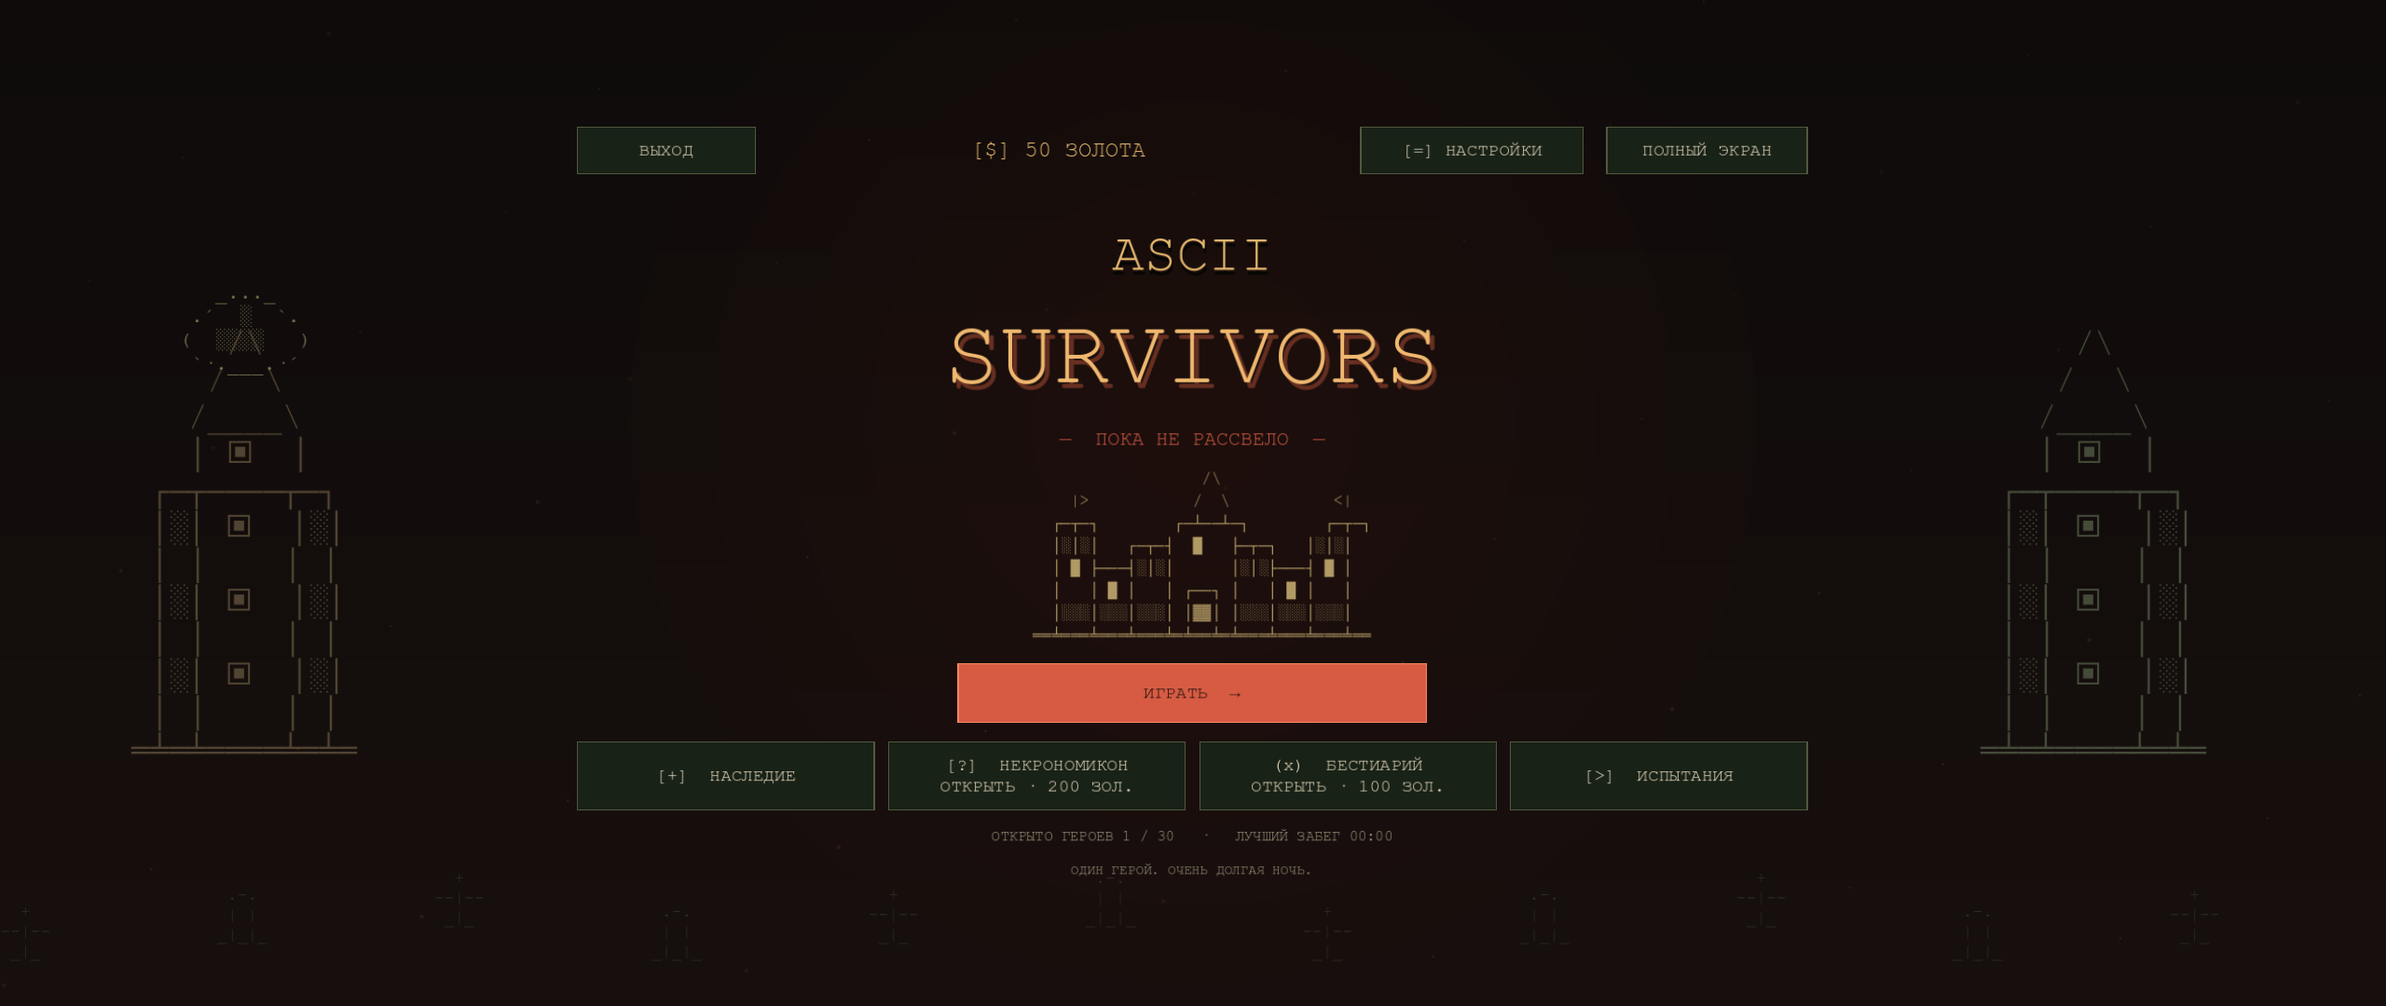
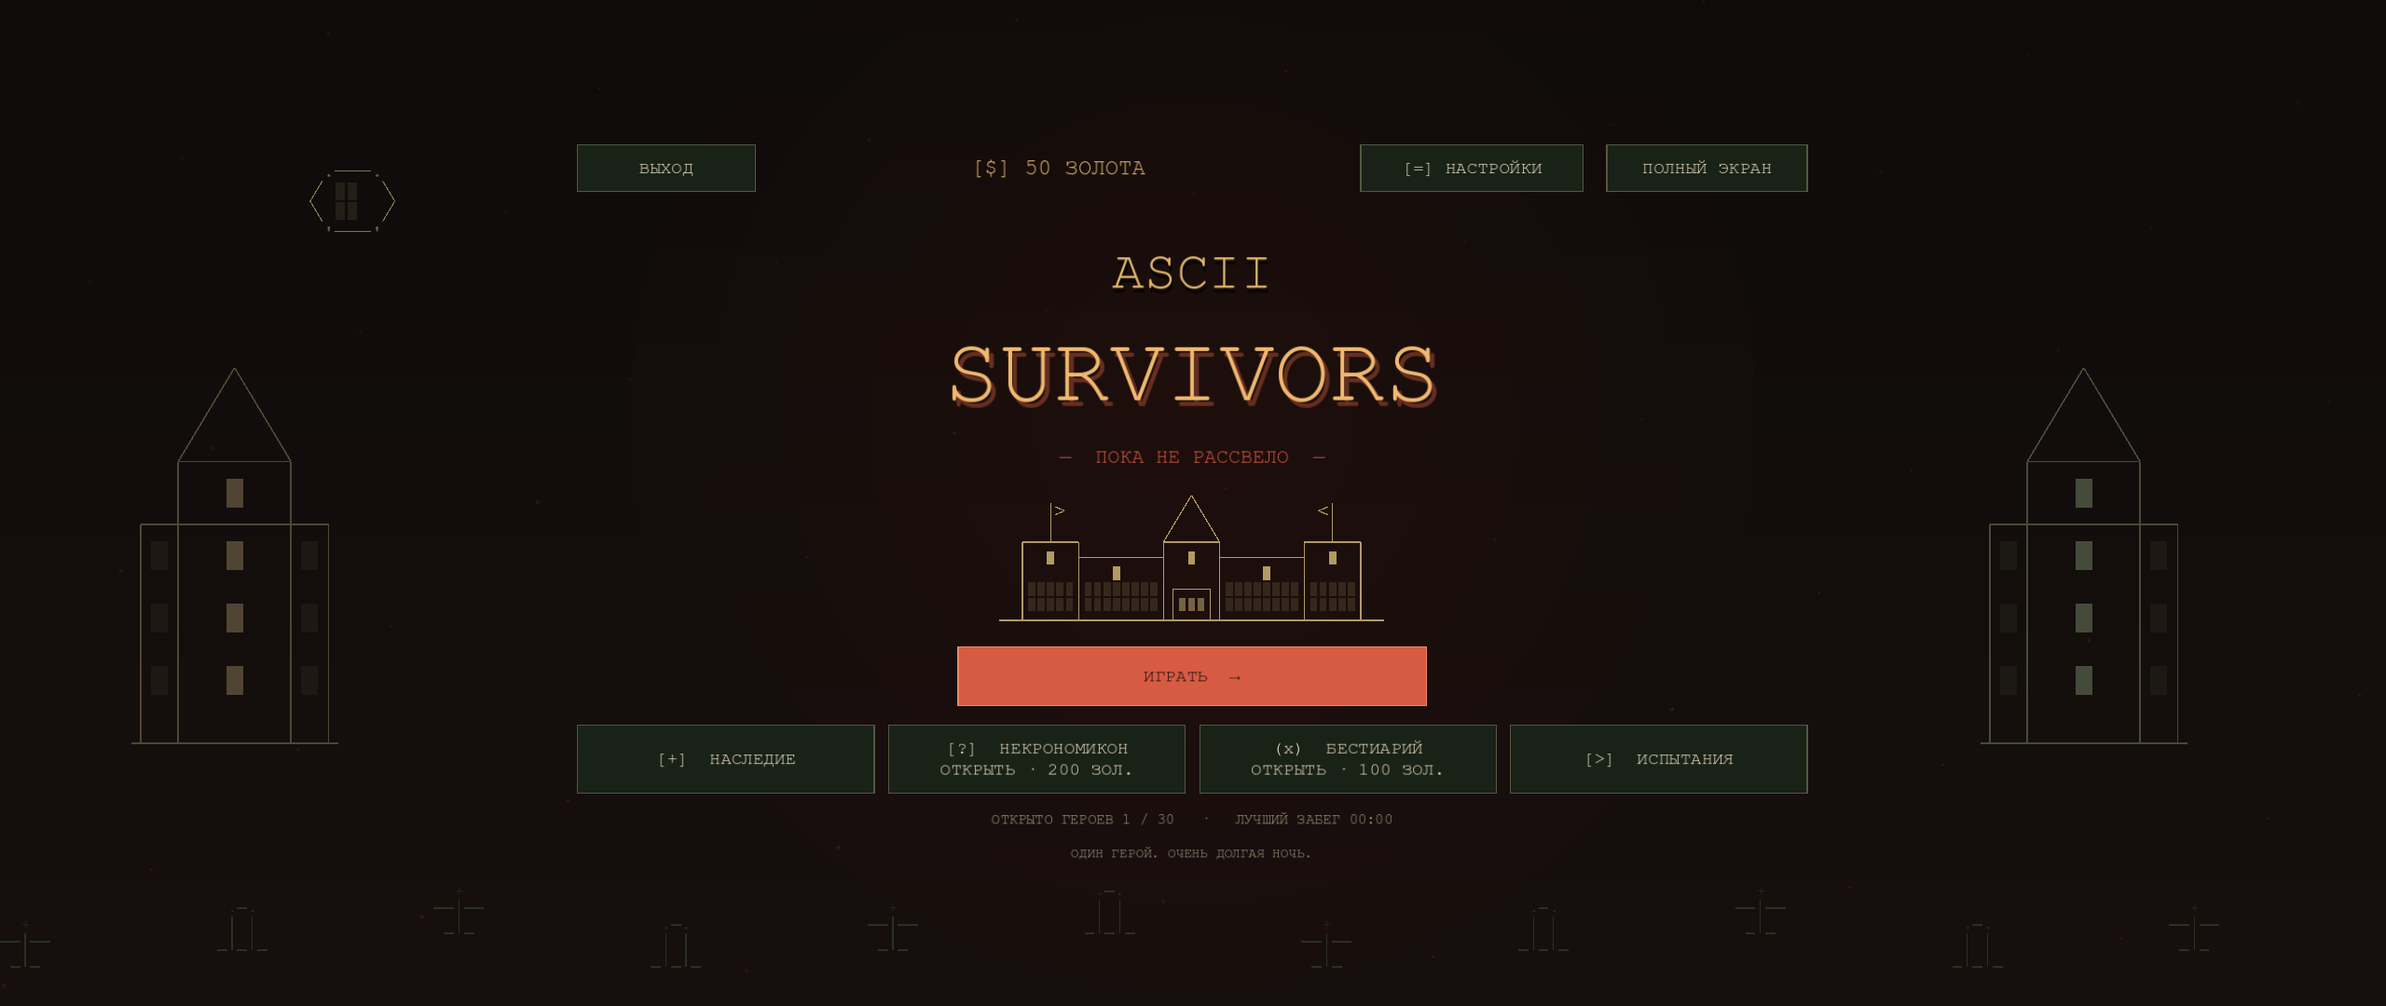
Align castle and tower pseudographics on a fixed cell grid

diff --git a/godot/src/MenuBackdrop.cs b/godot/src/MenuBackdrop.cs
@@ -4,23 +4,27 @@ namespace AsciiSurvivors;
 
 public partial class MenuBackdrop : Control
 {
-    public const string Castle="""
-                        /\
-          |>           /  \           <|
-        ┌─┬─┐        ┌─┴──┴─┐        ┌─┬─┐
-        │░│░│   ┌─┬─┤  █   ├─┬─┐   │░│░│
-        │ █ ├───┤░│░│      │░│░├───┤ █ │
-        │   │ █ │   │ ┌──┐ │   │ █ │   │
-        │░░░│░░░│░░░│ │▓▓│ │░░░│░░░│░░░│
-      ══╧═══╧═══╧═══╧═╧══╧═╧═══╧═══╧═══╧══
-    """;
+    public static readonly string Castle=BuildCastle();
+    private static string BuildCastle()
+    {
+        var grid=Enumerable.Range(0,9).Select(_=>Enumerable.Repeat(' ',41).ToArray()).ToArray();
+        void Put(int x,int y,string value){value.CopyTo(0,grid[y],x,value.Length);}
+        Put(20,0,"^");Put(19,1,"/ \\");Put(18,2,"/   \\");Put(5,1,"|>");Put(34,1,"<|");Put(5,2,"│");Put(35,2,"│");
+        Put(2,3,"┌──┴──┐");Put(17,3,"┌─────┐");Put(32,3,"┌──┴──┐");
+        for(int y=4;y<8;y++)foreach(int x in new[]{2,8,17,23,32,38})Put(x,y,"│");
+        Put(8,4,"├────────┤");Put(23,4,"├────────┤");
+        foreach(int x in new[]{5,20,35})Put(x,4,"█");foreach(int x in new[]{12,28})Put(x,5,"█");
+        foreach(int y in new[]{6,7})foreach(var (x,n) in new[]{(3,5),(9,8),(24,8),(33,5)})Put(x,y,new string('░',n));
+        Put(18,6,"┌───┐");Put(18,7,"│▓▓▓│");Put(0,8,new string('═',41));foreach(int x in new[]{2,8,17,18,22,23,32,38})Put(x,8,"╧");
+        return string.Join('\n',grid.Select(row=>new string(row)));
+    }
     public Font Font=null!;
     private double clock;
     public MenuBackdrop(){MouseFilter=MouseFilterEnum.Ignore;}
     public override void _Process(double delta){clock+=delta;if(clock>=.08){clock=0;QueueRedraw();}}
     private void Art(Vector2 at,string value,int size,Color color)
     {
-        foreach(var line in value.Split('\n')){DrawString(Font,at,line,HorizontalAlignment.Left,-1,size,color);at.Y+=size*1.18f;}
+        PseudoArt.DrawGrid(this,Font,at,value,size,color);
     }
     public override void _Draw()
     {
@@ -28,10 +32,10 @@ public partial class MenuBackdrop : Control
         for(int i=0;i<32;i++){float t=i/31f;DrawRect(new Rect2(0,i*h/32,w,h/32+1),new Color(.055f+t*.035f,.045f+t*.015f,.042f+t*.012f));}
         var center=new Vector2(w/2,h*.42f);float radius=Math.Min(w,h)*.56f;
         for(int i=7;i>0;i--)DrawCircle(center,radius*i/7,new Color(.27f,.07f,.045f,.035f));
-        const string tower="     /\\     \n    /  \\    \n   /____\\   \n   │ ▣  │   \n ┌─┬────┬─┐ \n │░│ ▣  │░│ \n │ │    │ │ \n │░│ ▣  │░│ \n │ │    │ │ \n │░│ ▣  │░│ \n │ │    │ │ \n═╧═╧════╧═╧═";
+        const string tower="     ^     \n    / \\    \n   /   \\   \n  ┌─────┐  \n  │  █  │  \n┌─┼─────┼─┐\n│░│  █  │░│\n│ │     │ │\n│░│  █  │░│\n│ │     │ │\n│░│  █  │░│\n│ │     │ │\n╧═╧═════╧═╧";
         int towerSize=(int)Math.Clamp(w/65,16,28);float towerTop=h*.35f;
         Art(new(w*.055f,towerTop),tower,towerSize,new Color("514432"));Art(new(w*.83f,towerTop),tower,towerSize,new Color("454b39"));
-        Art(new(w*.075f,towerTop-48),"   _..._\n .´  ░  `.\n(  ░░░░   )\n `·.___.·´",18,new Color("7d7653"));
+        Art(new(w*.13f,h*.16f)," .---. \n/ ░░  \\\n\\ ░░  /\n '---' ",18,new Color("7d7653"));
         for(int i=0;i<55;i++)
         {
             float x=(i*773.13f)%Math.Max(w,1),y=(i*139.7f-(float)Time.GetTicksMsec()*.006f)%Math.Max(h,1);if(y<0)y+=h;

diff --git a/godot/src/PseudoArt.cs b/godot/src/PseudoArt.cs
@@ -1,0 +1,52 @@
+using Godot;
+
+namespace AsciiSurvivors;
+
+// Box-drawing strokes share cell edges; fallback-font metrics cannot break the walls.
+public partial class PseudoArt : Control
+{
+    public Font Font=null!;
+    public string Art="";
+    public int CellHeight=14;
+    public Color Ink=Colors.White;
+    public PseudoArt(){MouseFilter=MouseFilterEnum.Ignore;}
+    public static Vector2 Measure(string art,int height)
+    {var lines=art.Split('\n');return new(lines.Max(l=>l.Length)*height*.6f,lines.Length*height);}
+    public override Vector2 _GetMinimumSize()=>Measure(Art,CellHeight);
+    public override void _Draw()=>DrawGrid(this,Font,Vector2.Zero,Art,CellHeight,Ink);
+    public static void DrawGrid(Control canvas,Font font,Vector2 origin,string art,int height,Color color)
+    {
+        float width=height*.6f,stroke=Math.Max(1,height/20f);var lines=art.Split('\n');
+        for(int row=0;row<lines.Length;row++)for(int col=0;col<lines[row].Length;col++)
+        {
+            char ch=lines[row][col];if(ch==' ')continue;
+            var p=origin+new Vector2(col*width,row*height);var center=p+new Vector2(width/2,height/2f);
+            int edges=ch switch{'─' or '═' or '-' or '='=>3,'│' or '║' or '|'=>12,'┌'=>10,'┐'=>9,'└'=>6,'┘'=>5,'├'=>14,'┤'=>13,'┬'=>11,'┴' or '╧'=>7,'┼'=>15,_=>0};
+            if(edges!=0)
+            {
+                if((edges&1)!=0)canvas.DrawLine(center,new(p.X,center.Y),color,stroke);
+                if((edges&2)!=0)canvas.DrawLine(center,new(p.X+width,center.Y),color,stroke);
+                if((edges&4)!=0)canvas.DrawLine(center,new(center.X,p.Y),color,stroke);
+                if((edges&8)!=0)canvas.DrawLine(center,new(center.X,p.Y+height),color,stroke);
+                if(ch=='┌'&&row>0&&col+1<lines[row-1].Length&&lines[row-1][col+1]=='/')canvas.DrawLine(center,new(p.X+width,p.Y),color,stroke);
+                if(ch=='┐'&&row>0&&col>0&&col-1<lines[row-1].Length&&lines[row-1][col-1]=='\\')canvas.DrawLine(center,p,color,stroke);
+            }
+            else if(ch is '░' or '▒' or '▓' or '█' or '▣')
+            {
+                var tint=color;tint.A*=ch=='░'?.18f:ch=='▒'?.35f:ch=='▓'?.6f:1;
+                canvas.DrawRect(new Rect2(p+new Vector2(1,1),new(width-2,height-2)),tint);
+            }
+            else if(ch=='/')canvas.DrawLine(p+new Vector2(0,height),p+new Vector2(width,0),color,stroke);
+            else if(ch=='\\')canvas.DrawLine(p,p+new Vector2(width,height),color,stroke);
+            else if(ch=='^'){canvas.DrawLine(p+new Vector2(0,height),p+new Vector2(width/2,height/2f),color,stroke);canvas.DrawLine(p+new Vector2(width/2,height/2f),p+new Vector2(width,height),color,stroke);}
+            else if(ch is '<' or '>')
+            {
+                float tip=ch=='>'?width:0,tail=width-tip;
+                canvas.DrawLine(p+new Vector2(tail,height*.25f),p+new Vector2(tip,height/2f),color,stroke);canvas.DrawLine(p+new Vector2(tip,height/2f),p+new Vector2(tail,height*.75f),color,stroke);
+            }
+            else if(ch=='_')canvas.DrawLine(p+new Vector2(0,height),p+new Vector2(width,height),color,stroke);
+            else
+            {int size=Math.Max(8,height-2);string text=ch.ToString();float advance=font.GetStringSize(text,HorizontalAlignment.Left,-1,size).X;canvas.DrawString(font,new(p.X+(width-advance)/2,p.Y+font.GetAscent(size)),text,HorizontalAlignment.Left,-1,size,color);}
+        }
+    }
+}

diff --git a/godot/src/SmokeTest.cs b/godot/src/SmokeTest.cs
@@ -83,7 +83,7 @@ public partial class Main
                 Assert(Math.Abs(root.Size.X-viewport.X)<2&&Math.Abs(root.Size.Y-viewport.Y)<2,tag+" HUD covers viewport");
                 Assert(renderer.Field.Position.X==0&&Math.Abs(renderer.Field.End.X-viewport.X)<2,tag+" arena fills full width");
                 var run=game;MakeReady();ShowIntro();await Shot("title-"+tag);Assert(overlay.GetGlobalRect().Encloses(centeredBody!.GetGlobalRect()),tag+" title fits");
-                var castle=overlay.FindChildren("TitleCastle","Label",true,false).Cast<Label>().Single();Assert(overlay.GetGlobalRect().Encloses(castle.GetGlobalRect()),tag+" castle fits without clipping");
+                var castle=overlay.FindChildren("TitleCastle","",true,false).Cast<PseudoArt>().Single();Assert(overlay.GetGlobalRect().Encloses(castle.GetGlobalRect()),tag+" castle fits without clipping");
                 Press("Play");await Shot("heroes-"+tag);Assert(overlay.GetGlobalRect().Encloses(centeredBody!.GetGlobalRect()),tag+" hero selection fits");
                 Press("ChooseStage");await Settle();Assert(overlay.GetGlobalRect().Encloses(centeredBody!.GetGlobalRect()),tag+" stage selection fits");
                 CloseOverlay();game=run;renderer.Game=run;game.Status=RunStatus.Running;ShowPause();await Settle();Assert(centeredBody!.Size.X<=540&&overlay.GetGlobalRect().Encloses(centeredBody.GetGlobalRect()),tag+" pause stays compact");

diff --git a/godot/src/FrontEnd.cs b/godot/src/FrontEnd.cs
@@ -29,7 +29,7 @@ public partial class Main
         var logo=CenterText("SURVIVORS",82,new Color("efb86f"));logo.AddThemeColorOverride("font_shadow_color",new Color("672f21"));logo.AddThemeConstantOverride("shadow_offset_x",4);logo.AddThemeConstantOverride("shadow_offset_y",5);body.AddChild(logo);
         body.AddChild(CenterText("—  ПОКА НЕ РАССВЕЛО  —",18,red));
         var castleCenter=new CenterContainer();body.AddChild(castleCenter);
-        var castle=Label(MenuBackdrop.Castle,14,new Color("b29a64"));castle.Name="TitleCastle";castle.AccessibilityName="Замок с башнями и закрытыми воротами";castleCenter.AddChild(castle);
+        var castle=new PseudoArt{Font=renderer.Font,Art=MenuBackdrop.Castle,CellHeight=14,Ink=new Color("b29a64")};castle.Name="TitleCastle";castle.AccessibilityName="Замок с башнями и закрытыми воротами";castleCenter.AddChild(castle);
         var center=new CenterContainer();body.AddChild(center);var launch=new VBoxContainer{CustomMinimumSize=new(420,0)};Gap(launch,10);center.AddChild(launch);
         launch.AddChild(MenuAction("Play","ИГРАТЬ  →",PlayFromTitle,true));
         if(store.SavedRun is {} saved)launch.AddChild(MenuAction("Continue","ПРОДОЛЖИТЬ · "+saved.Hero.Name+" · "+FormatTime(saved.Time),ContinueRun));

diff --git a/godot/src/PortTests.cs b/godot/src/PortTests.cs
@@ -44,6 +44,10 @@ public static partial class PortTests
         CheckLateWaves(c);
         CheckVideoSettings();
         CheckCrowd(c);
+        var castleRows=MenuBackdrop.Castle.Split('\n');
+        Check(castleRows.Length==9&&castleRows.All(row=>row.Length==41),"Castle uses a uniform cell grid");
+        char Mirror(char ch)=>ch switch{'/'=>'\\','\\'=>'/','<'=>'>','>'=>'<','┌'=>'┐','┐'=>'┌','├'=>'┤','┤'=>'├',_=>ch};
+        Check(castleRows.All(row=>row.SequenceEqual(row.Reverse().Select(Mirror))),"Castle walls, roofs and flags are mirror symmetric");
         var crowd=Benchmarks.Scene(c,512,true,false);foreach(var e in crowd.Enemies)e.Pos=crowd.Player.Pos+new Vector2(80,0);crowd.RebuildGrid();crowd.Tick(1/60f);
         Check(crowd.Enemies.Count==512&&crowd.Timings!.CrowdCandidates is >0 and <=512*32,"Dense crowd candidate work is bounded without dropping enemies");
         Check(crowd.Enemies.Select(e=>e.Pos).Distinct().Count()>1,"Bounded crowd solver separates overlapping bodies");

diff --git a/godot/README.md b/godot/README.md
@@ -6,7 +6,7 @@
 
 Распакуйте **весь** архив `ASCII-Survivors-Windows.zip` и запустите **`ASCII-Survivors.exe`**. Папку `data_AsciiSurvivors_windows_x86_64` оставьте рядом с EXE: внутри код и среда .NET. Редактор и отдельная установка .NET для готовой сборки не нужны. Сборка предназначена для Windows x64.
 
-Игра запускается сразу на весь экран. **G / F11** переключают полноэкранный и оконный режимы. На стартовом экране — замок, башни и кладбище из ASCII и Unicode-псевдографики; рисунок не перехватывает клики и помещается на проверяемых размерах окна.
+Игра запускается сразу на весь экран. **G / F11** переключают полноэкранный и оконный режимы. На стартовом экране — замок, башни и кладбище из ASCII и Unicode-псевдографики; рисунок не перехватывает клики и помещается на проверяемых размерах окна. Стены и крыши выводятся по фиксированной сетке, поэтому ширина Unicode-знаков и интервалы шрифта не разрывают контуры.
 
 В главном меню и паузе — **Настройки → Видео / Звук**. Лимит кадров: **60 / 120 / 240 FPS / без ограничения**, VSync отдельно. По умолчанию 240 FPS и VSync выключен; выбор сохраняется в `%APPDATA%/ASCII Survivors/video.cfg`. Для частоты выше 60 на 60-герцевом мониторе VSync должен быть выключен. Лимит задаёт потолок; фактическая частота зависит от нагрузки. Положение героя, врагов и снарядов интерполируется между шагами физики. [Настройки и оптимизация толпы](../docs/VIDEO_AND_CROWD.md).
 
@@ -67,7 +67,7 @@ Godot сохраняет профиль и текущий бой в `%APPDATA%/A
 
 ## Проверки и границы переноса
 
-- `-- --verify`: 4205 проверок, включая 64 эталона обычных/эволюционировавших атак из JS, совместимость пассивок со всеми 33 оружиями в обоих режимах и эволюциях, все стартовые наборы, волны, атаки боссов, кольца, награды, сохранения и откат при ошибке записи, звуковые события и объединение 5000 попаданий. Работает и в экспортированном EXE.
+- `-- --verify`: 4207 проверок, включая 64 эталона обычных/эволюционировавших атак из JS, совместимость пассивок со всеми 33 оружиями в обоих режимах и эволюциях, все стартовые наборы, волны, атаки боссов, кольца, награды, сохранения и откат при ошибке записи, звуковые события и объединение 5000 попаданий. Работает и в экспортированном EXE.
 - `-- --smoke-test=<абсолютная папка>`: настоящий рендер Godot: главное меню, переходы герой → карта → забег и назад, блокировка закрытых героев, продолжение сохранения, изоляция испытаний, компактная пауза, арена, сундук, атаки босса, огненные снаряды Поджигатора, вращающееся кадило, Дупликатор 0/3 на кнуте, катушке и монтировке, семь размеров окна (960×640 — 3440×1440) и полный экран, зацикливание музыки, смена трёх тем, сохранение громкости и лимит голосов. Проверяется совпадение пропорций окна/viewport без чёрных полос, полная ширина поля, размещение текста карточек и близость кнопок выбора. Снимки и `resolutions.json` записываются в указанную папку; сохранение изолировано от основного профиля.
 - `node Tests/export-reference.cjs`: обновление эталонов из JS. Пересматривать изменения фикстуры перед коммитом, а не принимать их автоматически.
 
